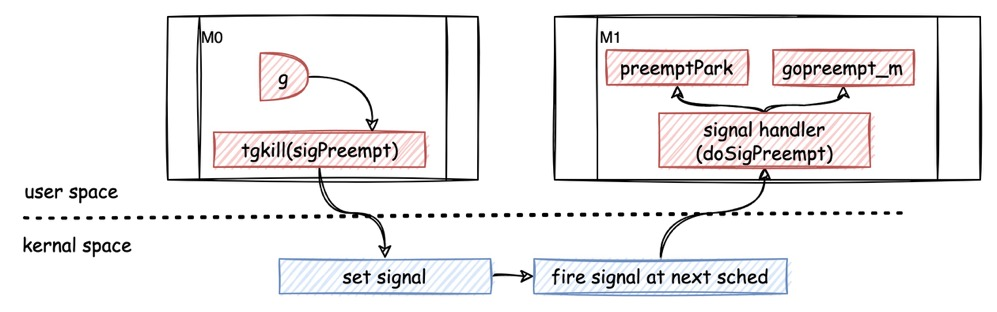
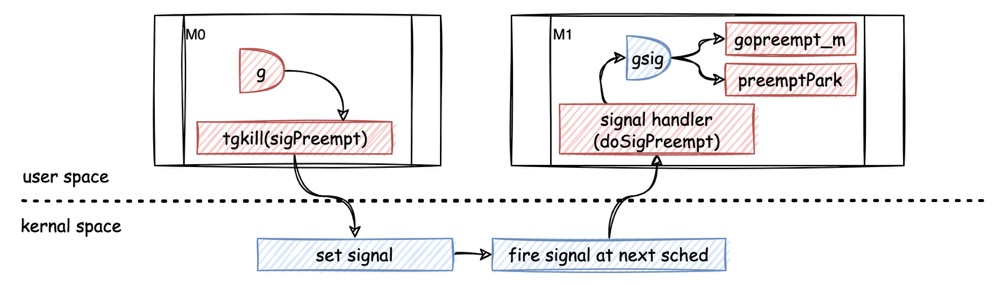
docs: update go runtime compute

Changed region(s): [[0.0311, 0.028, 0.995, 0.979], [0.0, 0.7552, 0.1555, 0.8392], [0.0, 0.5874, 0.1244, 0.6434]]

diff --git a/source/_posts/go-runtime-compute.md b/source/_posts/go-runtime-compute.md
@@ -612,7 +612,7 @@ golang 通过 net poller 将不同 os 对处理网络事件的动作进行了抽
 
 {% asset_img async-preempt.jpg %}
 
-抢占信号发出后，系统内核会将对应的线程信号表置位，当下一次该线程被系统调度器调度时，会处理 pending 的信号。由于这个过程不是同步的，因此称之为异步抢占。
+抢占信号发出后，系统内核会将对应的线程信号表置位，当下一次该线程被系统调度器调度时，会处理 pending 的信号。由于这个过程不是同步的，因此称之为异步抢占（由图可见，在做信号处理时，用到了 m 中保存的 gsignal 用作系统栈）。
 
 在多数情况下，同步抢占通过函数调用时对抢占标志的检查就可以完成，但异步抢占可以解决某些极端场景，如某个 g 执行了 `for {}` ，如果没有通过内核发送的信号机制，仅仅靠 go scheduler，是无法打断死循环流程的。
 
